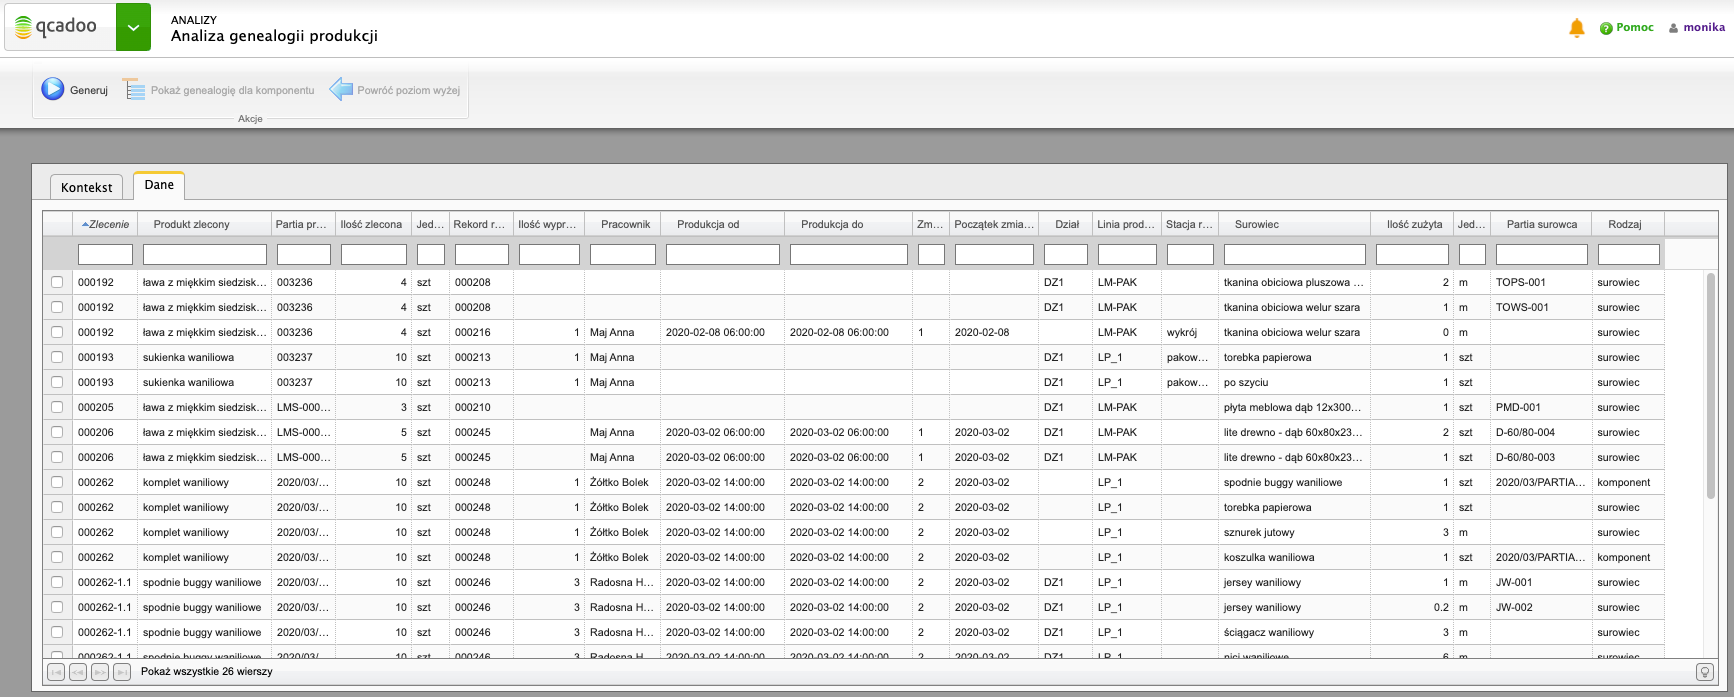
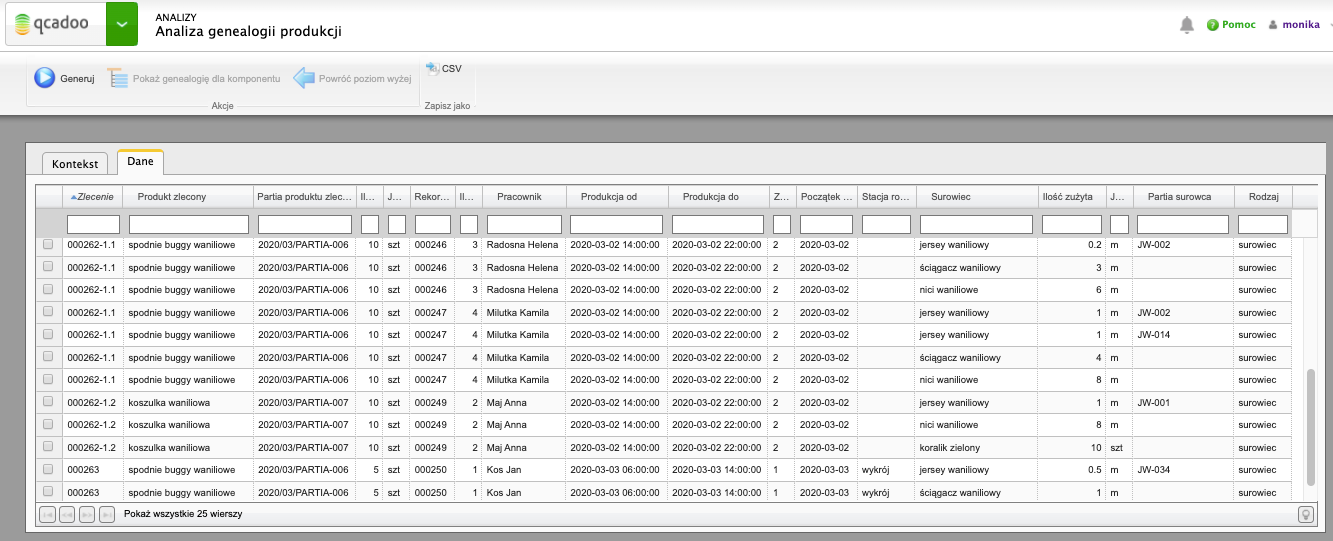
new changes

diff --git a/pages/planowanie/plan-na-stacje-i-pracownika/plan-na-stacje-robocza-i-pracownika.md b/pages/planowanie/plan-na-stacje-i-pracownika/plan-na-stacje-robocza-i-pracownika.md
@@ -91,6 +91,7 @@ Operacje do planu będą dodatkowo posortowane po poziomie w drzewie technologii
 5. **kryterium oceny przypisania pracownika** - gdy operacje są już przydzielone do stacji, następuje proces przypisania pracownika. Do operacji przypisywany jest każdy pracownik, który może daną czynność wykonać i każde przypisanie poddawane jest ocenie wg wskazanego kryterium. Wygrywa to, które daje najlepszy rezultat. Kryteria są następujące:
 - **_pracownik wykonujący na stacji poprzednią operację lub taki który najpóźniej skończył poprzednią operację_** - zawsze pracownik zajmujący się poprzednim zadaniem na stacji będzie pracownikiem najwłaściwszym do wykonania na niej czynności kolejnej. Nie chcemy aby pracownik niepotrzebnie krążył między maszynami. Jeśli natomiast pracownik ten nie może wykonać kolejnej czynności, bo nie ma wystarczających umiejętności, spróbujemy poszukać innego pracownika. Przy tym kryterium najlepszym będzie ten, który skończy poprzednią czynność najpóźniej - zadbamy dzięki temu o to, by przerwa w pracy tego pracownika była jak najkrótsza
 - **_pracownik wykonujący na stacji poprzednią operację lub taki który najwcześniej skończył poprzednią operację_** - to kryterium różni się od poprzedniego tym, że gdy pracownik nie może kontynuować pracy na danej stacji, poszukując innego pracownika dobierzemy tego, którego przerwa w pracy jest najdłuższa
+- **_domyślny pracownik dla danej stacji_** - w tej opcji planowania do każdego zadania operacyjnego zostanie przypisany pracownik ustawiony jako domyślny w [stacji roboczej](/stacje-robocze).
 
 {% include callout.html content="Pierwszym bezwzględnym kryterium przypisywania pracownika do operacji na danej stacji są [jego umiejętności](/pracownicy.html#jak-przypisać-do-pracownika-posiadane-umiejętności) i poziom ich zaawansowania. Operację może wykonać tylko ten pracownik, który włada umiejętnością na co najmniej takim poziomie jaki został zdefiniowany w [operacji](/wymagane-umiejetnosci-operacji)" type="warning" %}
 

diff --git a/pages/analizy/analiza-genealogii-produkcji.md b/pages/analizy/analiza-genealogii-produkcji.md
@@ -28,6 +28,10 @@ W tym celu zaznacz wiersz z produktem wejściowym będącym komponentem (poznasz
 {% include lightbox.html file="analizyAnalizaGenealogiiProdukcjiKomponent.png" alt="Analizy genealogii produkcji dla komponentu" caption="Analizy genealogii produkcji dla komponentu" %}
 
 Jeśli i tym razem używałeś komponentu - możesz ponownie go zaznaczyć i przejść w głąb drzewa technologicznego.
-Aby wrócić do pełnej analizy użyj przycisku {% include inline_image.html file="przychejiskPowrocPoziomWyzej.png" alt="Przycisk Powróć poziom wyżej" %} **Powróć poziom wyżej**.
+Aby wrócić do pełnej analizy użyj przycisku {% include inline_image.html file="przyciskPowrocPoziomWyzej.png" alt="Przycisk Powróć poziom wyżej" %} **Powróć poziom wyżej**.
 
 {% include callout.html content="Klikając prawym przyciskiem myszy w nagłówek kolumny możesz ukryć te, które nie są Ci potrzebne." type="warning" %}
+
+Dane widoczne w tabeli możesz wyeksportować do pliku CSV i otworzyć go w Excelu (instrukcję znajdziesz [tutaj](/eksport-danych.html#otwarcie-pliku-csv-w-excelu)). Wczytaj do analizy dane i kliknij przycisk {% include inline_image.html file="przyciskCSV.png" alt="Przycisk CSV" %} **CSV**. Zostaną wyeksportowane wszystkie dane spełniające nadane przez Ciebie kryteria filtrowania. Jeśli w [parametrach raportów](/parametry-raport) określiłeś, że eksportowane mają być tylko widoczne kolumny, to w pliku .csv nie będziesz widzieć tych kolumn, które są ukryte.
+
+{% include callout.html content="Aby ukryć nieinteresujące Cię kolumny, kliknij w nagłówek tabeli prawym przyciskiem myszy i odznacz te, które nie mają się pojawiać." type="warning" %}

diff --git a/pages/struktura-firmy/stacje-robocze.md b/pages/struktura-firmy/stacje-robocze.md
@@ -19,13 +19,14 @@ Aby dodać nową stację roboczą wybierz: **Struktura firmy >> Stacje robocze >
 {% include lightbox.html file="strukturaFirmyStacjaNowa.png" alt="Dodanie stacji roboczej" caption="Dodanie stacji roboczej" %} 
 
 Koniecznie podaj **numer**, **nazwę** oraz **[typ stacji roboczej](/typy-stacji-roboczych)**. Ponadto możesz dla stacji roboczej zapisać takie dane jak:
-- opis
-- numer fabryczny
-- numer UDT
-- seria
-- producent
-- data produkcji
-- numer inwentarzowy
+- opis,
+- numer fabryczny,
+- numer UDT,
+- seria,
+- producent,
+- data produkcji,
+- numer inwentarzowy,
+- pracownik - jest to domyślny pracownik obsługujący daną stację roboczą. Przypisanie przyda się w [planie na stację roboczą i pracownika](/plan-na-stacje-robocza-i-pracownika), gdzie dla odpowiednio wybranego kryterium doboru pracownika, do każdej operacji na daną stację zostanie przyporządkowany podany pracownik.
 
 Potraktuj qcadoo jako bazę wszelkich dostępnych informacji o maszynie. Dzięki temu będziesz mieć inforamcje zawsze pod ręką - nie będziesz musiał przeszukiwać segregatorów z dokumentami.
 
